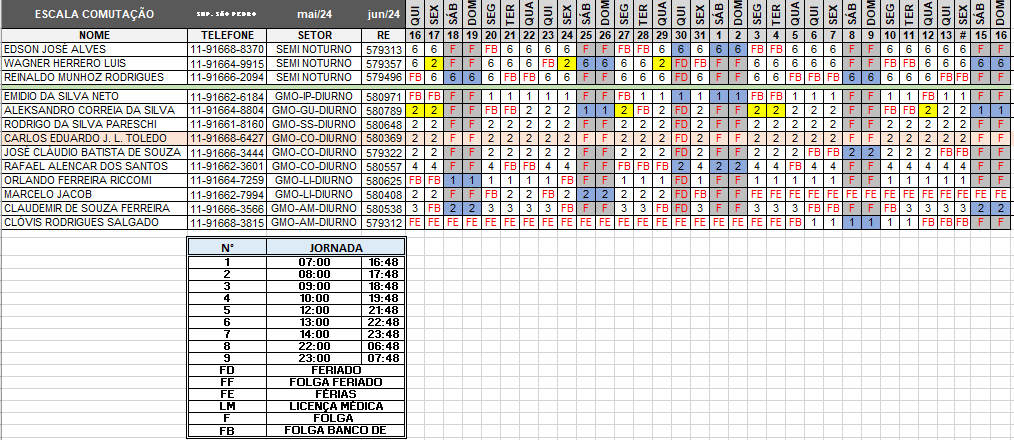
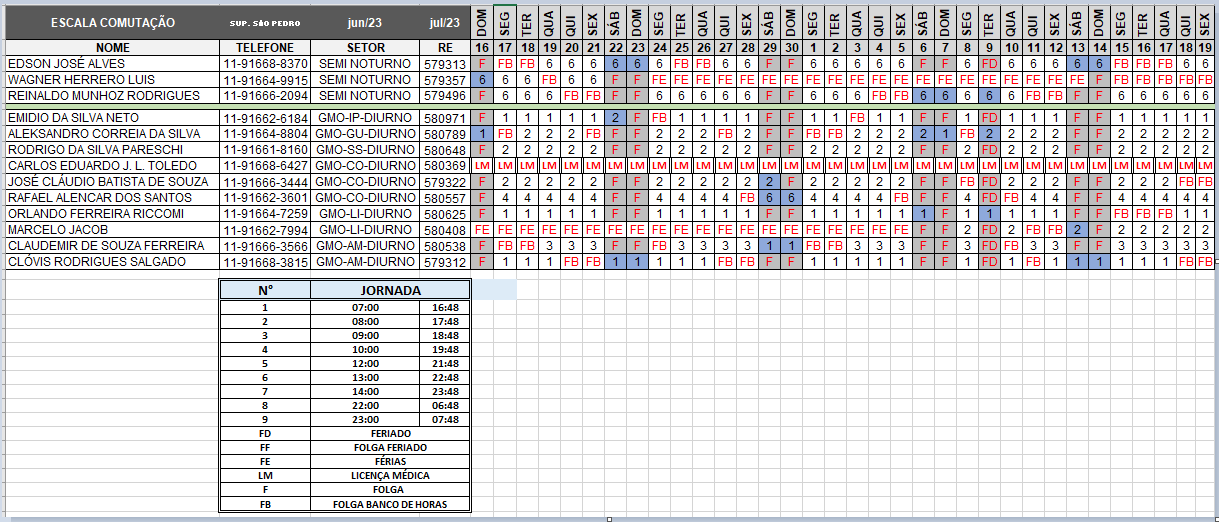
atualizado escala
atualizado escala

diff --git a/escala.html b/escala.html
@@ -15,7 +15,7 @@
 
     <h2 id="escdow">Clique na Escala para Download</h2>
 
-    <a href="ESCALA MAI-JUN IP_PE.xlsx"><img src="escala.png" alt="escala/png" id="escala"></a>
+    <a href="ESCALA JUN-JUL IP_PE (1).xlsx"><img src="escala.png" alt="escala/png" id="escala"></a>
 
 
 
